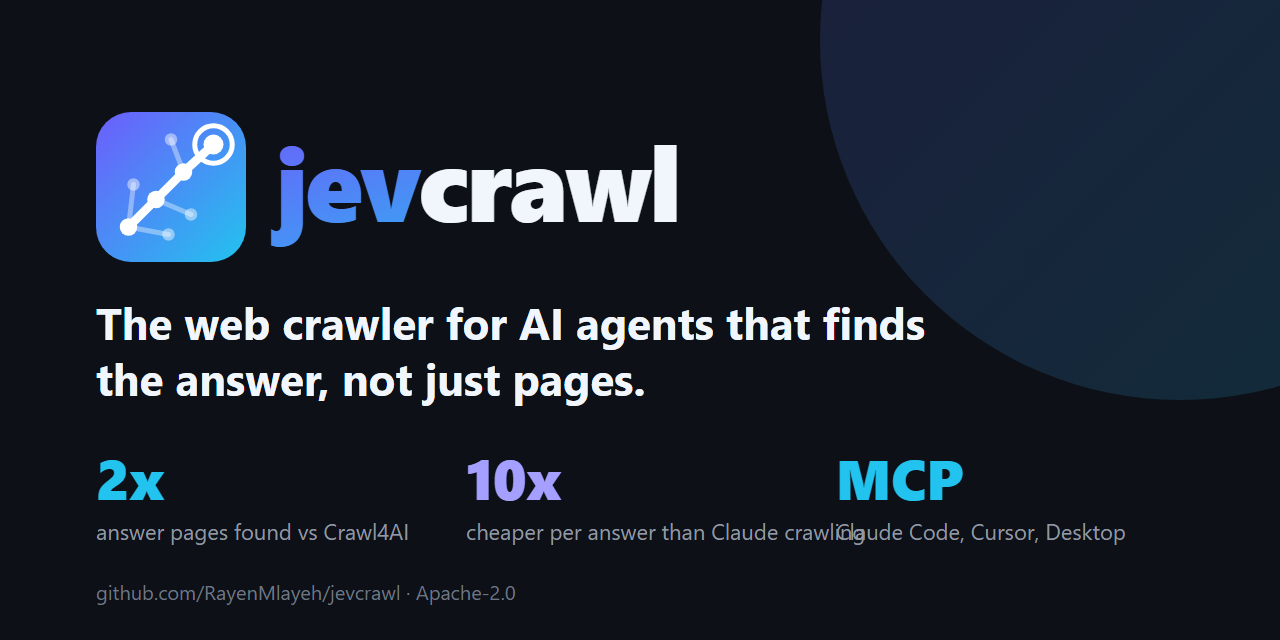
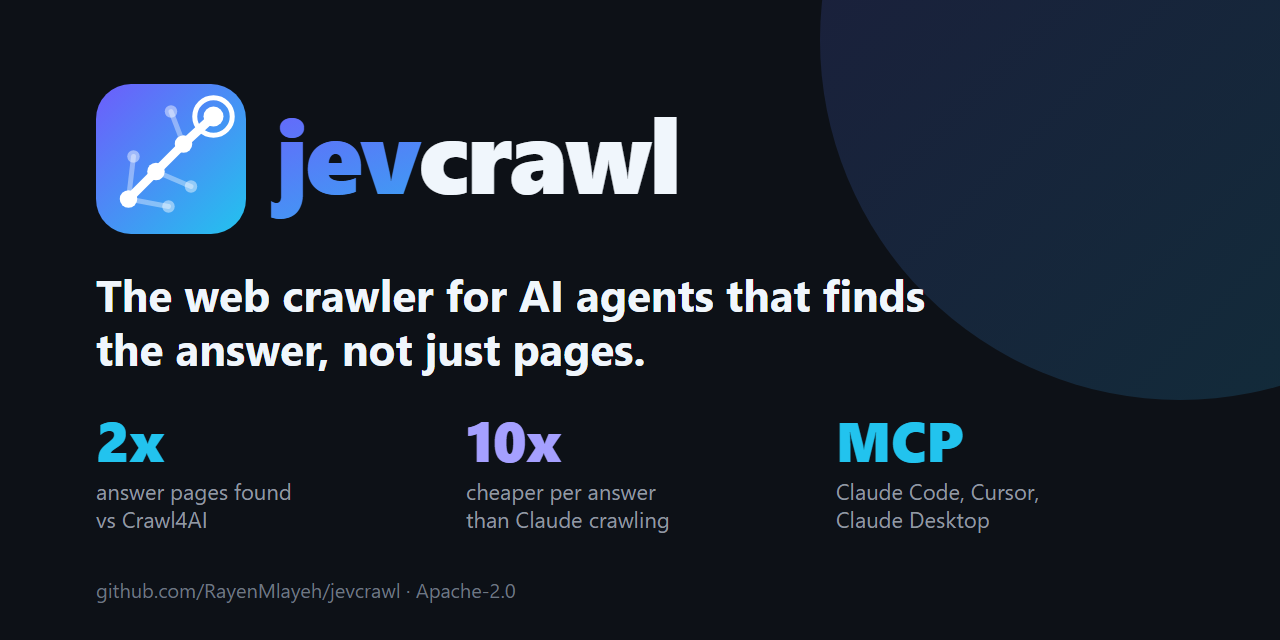
Social preview: two-line captions so they no longer overlap

diff --git a/assets/build.py b/assets/build.py
@@ -386,23 +386,24 @@ def social() -> str:
     w, h = 1280, 640
     body = rect(0, 0, w, h, 0, "#0D1117")
     body += '<circle cx="1180" cy="40" r="360" fill="url(#g)" opacity=".16"/>\n'
-    body += mark(96, 112, 150)
+    body += mark(96, 84, 150)
     body += (
-        '<text x="276" y="222" font-size="104" font-weight="800" letter-spacing="-3">'
+        '<text x="276" y="194" font-size="104" font-weight="800" letter-spacing="-3">'
         '<tspan fill="url(#g)">jev</tspan><tspan fill="#F0F6FC">crawl</tspan></text>\n'
     )
-    body += text(96, 340, "The web crawler for AI agents that finds", "#F0F6FC", 44, 700)
-    body += text(96, 396, "the answer, not just pages.", "#F0F6FC", 44, 700)
+    body += text(96, 312, "The web crawler for AI agents that finds", "#F0F6FC", 44, 700)
+    body += text(96, 366, "the answer, not just pages.", "#F0F6FC", 44, 700)
     stats = [
-        ("2x", "answer pages found vs Crawl4AI"),
-        ("10x", "cheaper per answer than Claude crawling"),
-        ("MCP", "Claude Code, Cursor, Desktop"),
+        ("2x", ["answer pages found", "vs Crawl4AI"]),
+        ("10x", ["cheaper per answer", "than Claude crawling"]),
+        ("MCP", ["Claude Code, Cursor,", "Claude Desktop"]),
     ]
-    for i, (big, small) in enumerate(stats):
+    for i, (big, lines) in enumerate(stats):
         x = 96 + i * 370
-        body += text(x, 500, big, ACCENT_B if i != 1 else "#A5A0FF", 56, 800)
-        body += text(x, 540, small, "#9198A1", 22)
-    body += text(96, 600, "github.com/RayenMlayeh/jevcrawl · Apache-2.0", "#6E7781", 20)
+        body += text(x, 462, big, ACCENT_B if i != 1 else "#A5A0FF", 56, 800)
+        for k, line in enumerate(lines):
+            body += text(x, 500 + k * 28, line, "#9198A1", 22)
+    body += text(96, 598, "github.com/RayenMlayeh/jevcrawl · Apache-2.0", "#6E7781", 20)
     return svg(w, h, body, "jevcrawl")
 
 
